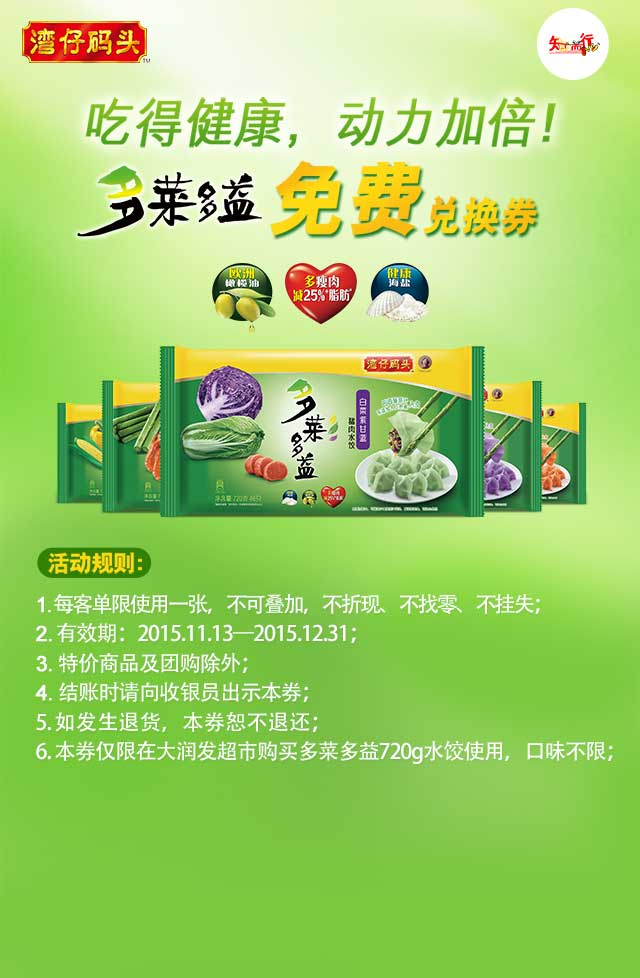
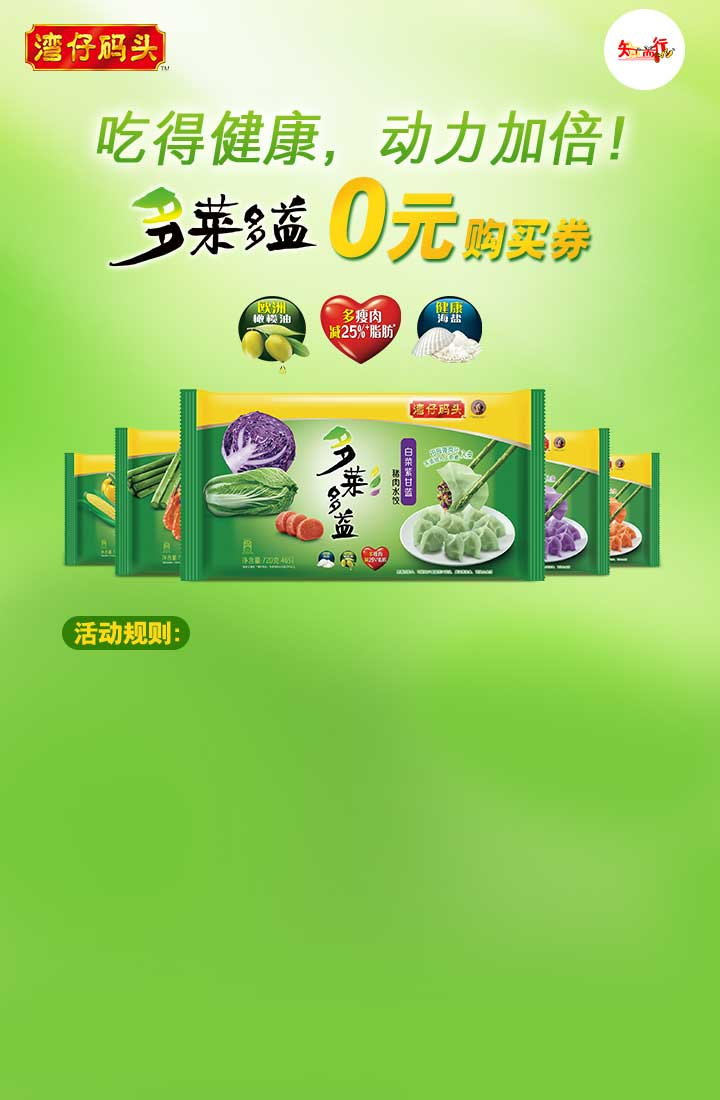
first release

diff --git a/js/index.js b/js/index.js
@@ -1,14 +1,18 @@
 $(function () {
   var wrapperH = $('.wrapper').height();
+  var wrapperW = $('.wrapper').width();
   var $code = $('.code');
-  var uid = 1;
+  var uid = -1;
   var android = false;
   var ua = navigator.userAgent.toLowerCase();
   if (/(android)/i.test(ua)) {
     android = true;
   }
 
-  $code.css({top: (wrapperH - 84 - 30) + 'px'});
+  setTimeout(function () {
+    $code.css({top: (wrapperH - 84 - 10) + 'px'});
+    $('.rule').css({top: wrapperW*0.96 + 'px'});
+  }, 1000);
   getUid();
 
   function connectWebViewJavascriptBridge (callback) {
@@ -24,16 +28,12 @@ $(function () {
     if (android) {
       var result = window.web && web.getUserInfo();
       uid = (JSON.parse(result)).uid;
-      alert(uid);
       checkCode();
     } else {
       connectWebViewJavascriptBridge(function (bridge) {
         bridge.init();
-        alert(33)
         bridge.callHandler('getUserId', {}, function(response) {
-          alert(response);
           uid = (JSON.parse(response)).uid;
-          alert(uid);
           checkCode();
         })
       });
@@ -42,12 +42,11 @@ $(function () {
   function checkCode () {
     $.ajax({
       method:'get',
-      url:'/backend/check_exist.php',
+      url:'http://studio.windra.in/ldl-wzmt/backend/check_exist.php',
       data: {uid: uid}
     }).done(function (res) {
       res = JSON.parse(res);
-      console.log(res.code);
-      if (res.code != 200) {
+      if (res.code == 200) {
         $('.modal').show();
       }
     });
@@ -58,19 +57,22 @@ $(function () {
 
     if (code != '') {
       $.ajax({
-        method:'get',
-        url:'/backend/submit_code.php',
+        method:'post',
+        url:'http://studio.windra.in/ldl-wzmt/backend/submit_code.php',
         data: {
           uid: uid,
           code: code
         }
       }).done(function (res) {
-        console.log(res);
-        if (res.code != 200) {
+        res = JSON.parse(res);
+        if (res.code == 200) {
           $('.form-part').hide();
+          $('.code').attr('src', res.codeurl).css({display: 'block'});
           $('.tip-part').show().fadeOut(4000, function() {
             $('.modal').hide();
           });
+        } else {
+          alert(res.msg);
         }
       });
     } else {

diff --git a/index.html b/index.html
@@ -11,6 +11,15 @@
 <body>
 <div class="wrapper">
   <img class="background" src="img/bg.jpg" alt=""/>
+  <p class="rule">
+    1. 本券仅限在大润发超市购买多菜多益720g或1kg水饺使用，口味不限；<br>
+    2. 有效期：2015.11.13—2015.12.31；<br>
+    3. 每张收银小票限用一张，不挂失；<br>
+    4. 团购除外，打印无效；<br>
+    5. 结账时请向收银员出示本券；<br>
+    6. 如发生退货，本券恕不退还；
+    <img src="" class="code" alt=""/>
+  </p>
   <div class="modal code-modal">
     <div class="modal-container">
       <div class="form-part">
@@ -23,12 +32,6 @@
       </div>
     </div>
   </div>
-  <!--<div class="modal tip-modal">-->
-    <!--<div class="modal-container tip-container">-->
-      <!-- -->
-    <!--</div>-->
-  <!--</div>-->
-  <img src="http://www.navy.mil/navydata/ships/destroyers/dd492-bailey.jpg" class="code" alt=""/>
 </div>
 
 <script src="js/jquery.min.js"></script>

diff --git a/css/index.css b/css/index.css
@@ -63,7 +63,7 @@ body {
   position: fixed;
   width: 100%;
   height: 100%;
-  background-color: rgba(0,0,0,.8);
+  background-color: rgba(0,0,0,.4);
   left: 0;
   top: 0;
   display: none;
@@ -101,11 +101,9 @@ body {
   border-radius: 3px;
 }
 .code {
-  position: absolute;
-  width: 30%;
-  top: 468px;
-  left: 35%;
-  z-index: 11111;
+  display: none;
+  margin: 20px auto;
+  width: 100%;
 }
 .form-part {
   background: #FFFFFF;
@@ -158,4 +156,12 @@ body {
 .swipeMove {
   -webkit-animation: swipeMove 1s ease-in infinite;
   animation: swipeMove 1s ease-in infinite
+}
+.rule {
+  color: white;
+  position: absolute;
+  left: 9%;
+  font-size: 1.1rem;
+  width: 82%;
+  top: 363px;
 }
